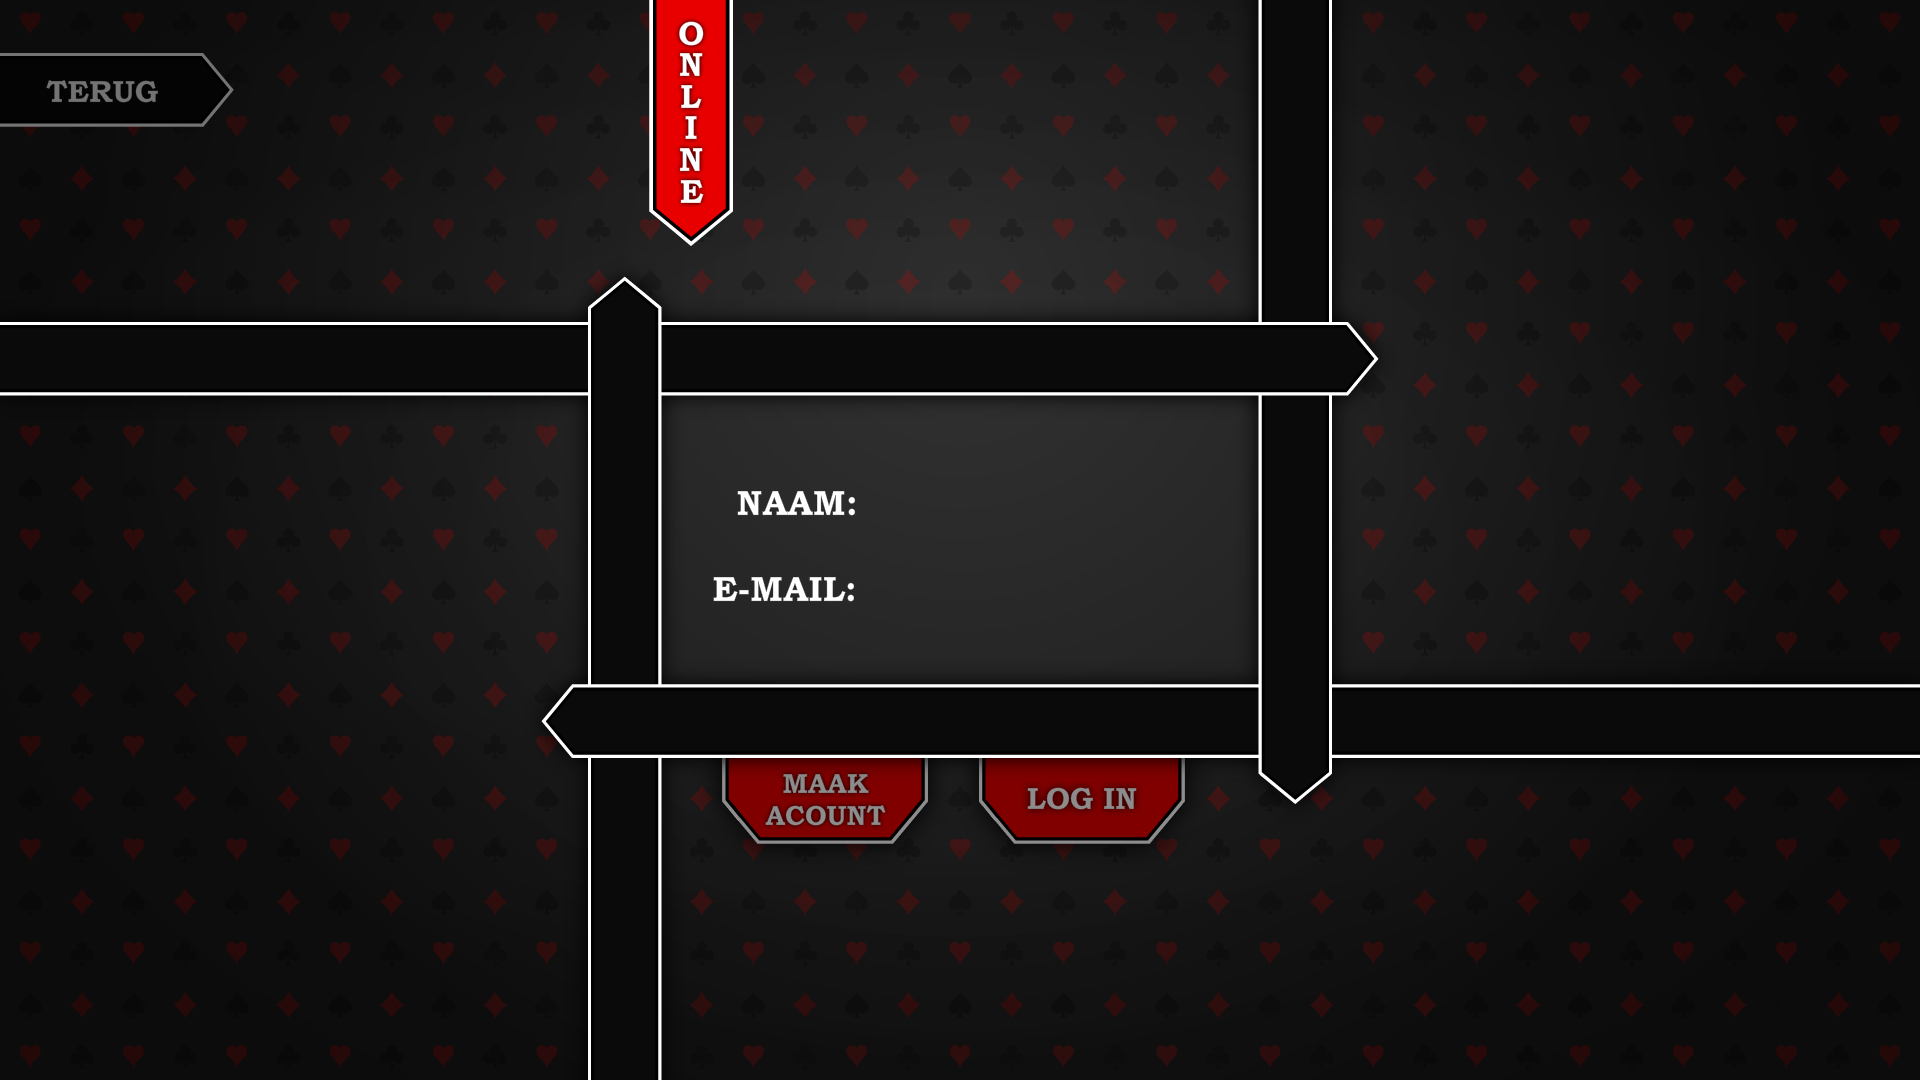
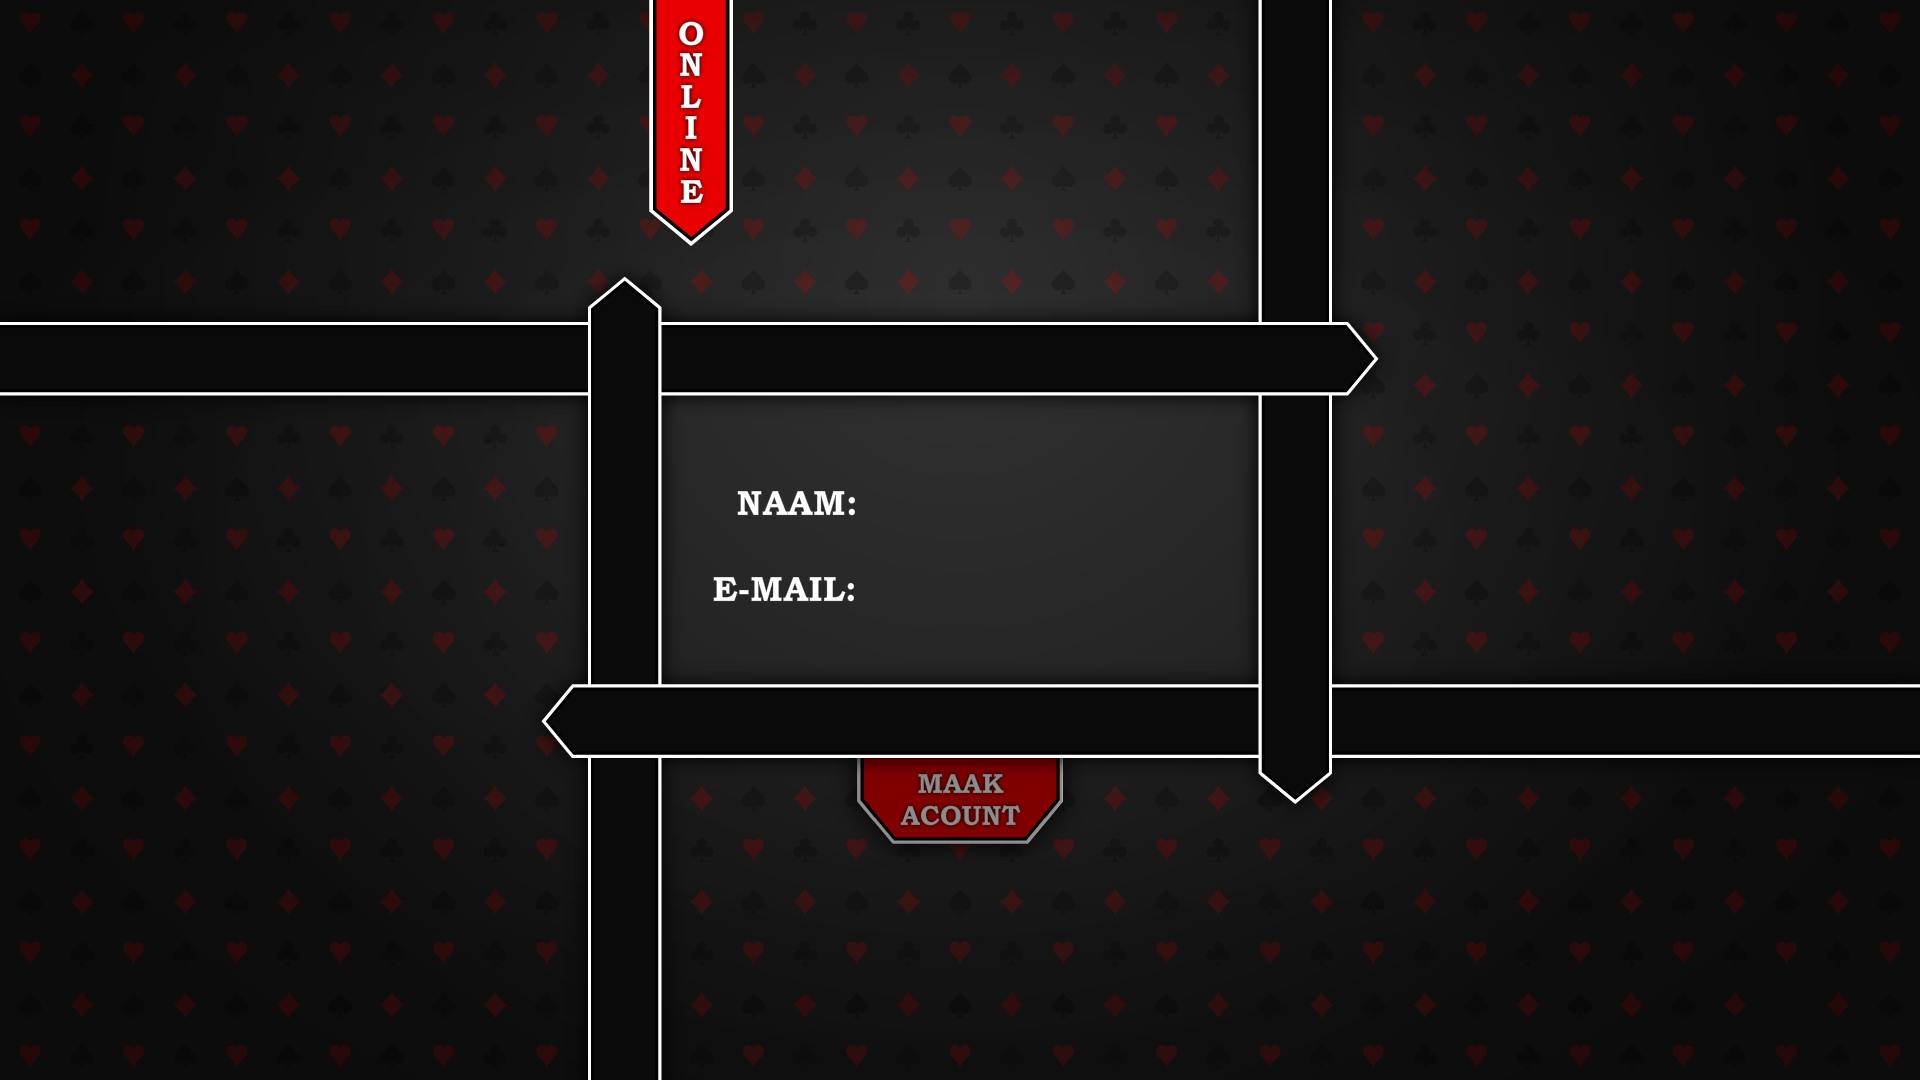
Login scherm aangepast

Changed region(s): [[0.375, 0.7028, 0.625, 0.7944], [0.0, 0.0611, 0.125, 0.1222]]

diff --git a/OnlineSchermen.cs b/OnlineSchermen.cs
@@ -23,9 +23,9 @@ class inlogScherm :  Form
         Label maakAccountLabel1 = new Label();
         string CP;
 
-        Bitmap inlogMenu, login, maakAccount, terug;
-        Rectangle loginButton, maakAccountButton, terugButton;
-        bool loginHover, maakAccountHover, terugHover;
+        Bitmap maakAccountMenu, maakAccount, terug;
+        Rectangle maakAccountButton, terugButton;
+        bool maakAccountHover, terugHover;
         float verhouding;
         Font arial;
         Form menuBack;
@@ -46,13 +46,11 @@ class inlogScherm :  Form
             if (!Directory.Exists(GNF)) { Directory.CreateDirectory(GNF); }
             CP = Path.Combine(GNF, "Cyperpesten");
             if (!Directory.Exists(CP)) { Directory.CreateDirectory(CP); }
-            inlogMenu = new Bitmap((Image)CyberPesten.Properties.Resources.ResourceManager.GetObject("online_menu"));
-            login = new Bitmap((Image)CyberPesten.Properties.Resources.ResourceManager.GetObject("login_select"));
+            maakAccountMenu = new Bitmap((Image)CyberPesten.Properties.Resources.ResourceManager.GetObject("online_menu"));
             maakAccount = new Bitmap((Image)CyberPesten.Properties.Resources.ResourceManager.GetObject("maak_account_select"));
             terug = new Bitmap((Image)CyberPesten.Properties.Resources.ResourceManager.GetObject("Terug_button"));
 
-            loginButton = new Rectangle((int)(979 * verhouding), (int)(758 * verhouding), (int)(205 * verhouding), (int)(86 * verhouding));
-            maakAccountButton = new Rectangle((int)(722 * verhouding), (int)(758 * verhouding), (int)(205 * verhouding), (int)(86 * verhouding));
+            maakAccountButton = new Rectangle((int)(857 * verhouding), (int)(758 * verhouding), (int)(205 * verhouding), (int)(86 * verhouding));
             terugButton = new Rectangle(0, (int)(verhouding * 53), (int)(verhouding * 234), (int)(verhouding * 74));
 
             this.Paint += this.buildMenu;
@@ -119,12 +117,8 @@ class inlogScherm :  Form
 
         private void buildMenu(object sender, PaintEventArgs pea)
         {
-            pea.Graphics.DrawImage(inlogMenu, 0, 0, (int)inlogMenu.Width * verhouding, (int)inlogMenu.Height * verhouding);
+            pea.Graphics.DrawImage(maakAccountMenu, 0, 0, (int)maakAccountMenu.Width * verhouding, (int)maakAccountMenu.Height * verhouding);
 
-            if (loginHover)
-            {
-                pea.Graphics.DrawImage(login, 0, 0, Screen.PrimaryScreen.Bounds.Width, Screen.PrimaryScreen.Bounds.Height);
-            }
             if (maakAccountHover)
             {
                 pea.Graphics.DrawImage(maakAccount, 0, 0, Screen.PrimaryScreen.Bounds.Width, Screen.PrimaryScreen.Bounds.Height);
@@ -137,15 +131,6 @@ class inlogScherm :  Form
 
         public void hover(object sender, MouseEventArgs mea)
         {
-            if (loginButton.Contains(mea.Location))
-            {
-                loginHover = true;
-            }
-            else
-            {
-                loginHover = false;
-            }
-
             if (maakAccountButton.Contains(mea.Location))
             {
                 maakAccountHover = true;
@@ -169,11 +154,7 @@ class inlogScherm :  Form
 
         private void klik(object sender, MouseEventArgs mea)
         {
-            if (loginHover)
-            {
-                //Login
-            }
-            else if (maakAccountHover)
+            if (maakAccountHover)
             {
                 maakAccountKnop_Click();
             }

diff --git a/Properties/Resources.Designer.cs b/Properties/Resources.Designer.cs
@@ -633,16 +633,6 @@ namespace CyberPesten.Properties {
         /// <summary>
         ///   Looks up a localized resource of type System.Drawing.Bitmap.
         /// </summary>
-        internal static System.Drawing.Bitmap login_select {
-            get {
-                object obj = ResourceManager.GetObject("login_select", resourceCulture);
-                return ((System.Drawing.Bitmap)(obj));
-            }
-        }
-        
-        /// <summary>
-        ///   Looks up a localized resource of type System.Drawing.Bitmap.
-        /// </summary>
         internal static System.Drawing.Bitmap Lokaal {
             get {
                 object obj = ResourceManager.GetObject("Lokaal", resourceCulture);

diff --git a/Instellingenscherm.cs b/Instellingenscherm.cs
@@ -74,7 +74,7 @@ namespace CyberPesten
             Controls.Add(aantalSpelersLab);*/
 
             aantalSpelersCon = new NumericUpDown();
-            aantalSpelersCon.Location = new Point(9220, 250);
+            aantalSpelersCon.Location = new Point(220, 250);
             aantalSpelersCon.DecimalPlaces = 0;
             aantalSpelersCon.ValueChanged += aantalSpelers;
             Controls.Add(aantalSpelersCon);
